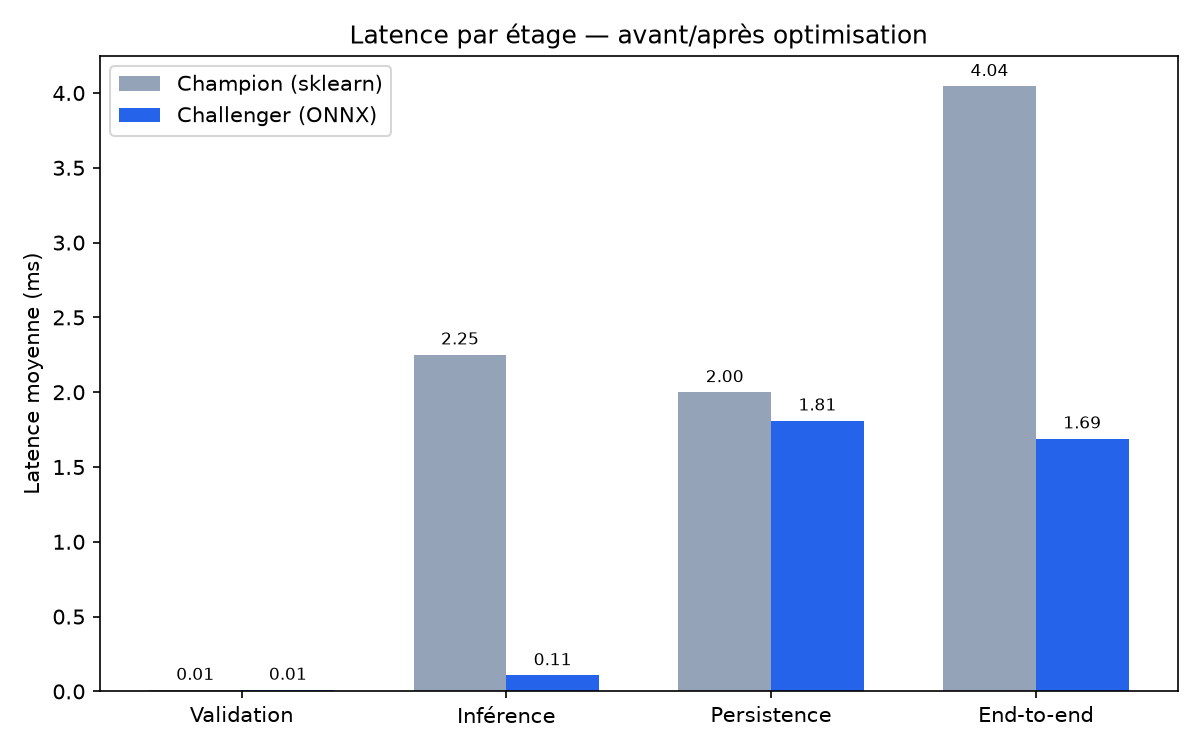
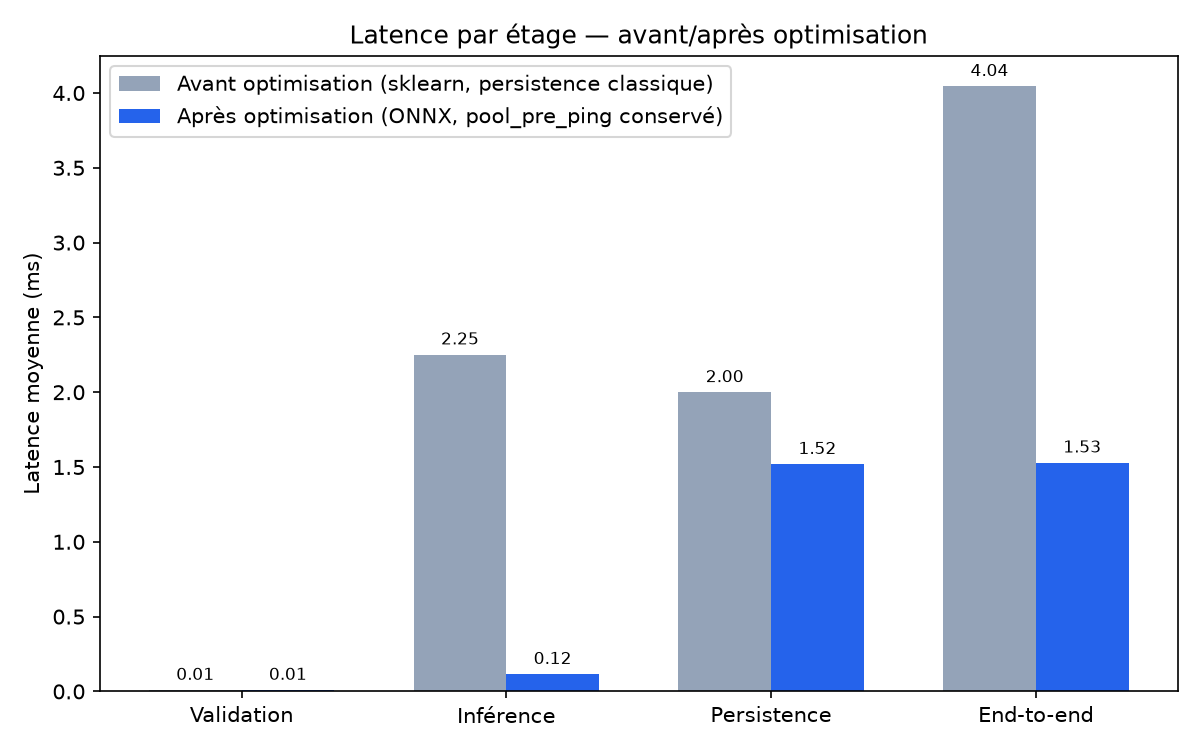
docs: refresh measured results with the end_to_end row and new comparison chart

diff --git a/docs/operations/optimisation-inference.md b/docs/operations/optimisation-inference.md
@@ -43,19 +43,20 @@ Comparaison entre l'ancien champion (v4, sklearn — alias `sklearn-champion` de
 
 ## Résultat mesuré
 
-Même protocole de profiling, 200 appels, rejoué contre le modèle ONNX (alors `challenger`, aujourd'hui `champion`) :
+Même protocole de profiling, 200 appels, avant tout changement vs. état actuellement déployé :
 
-![Latence par étage avant/après optimisation ONNX](../assets/model/onnx_inference_latency_comparison.png)
+![Latence par étage avant/après optimisation](../assets/model/onnx_inference_latency_comparison.png)
 
-*Généré par `make plot-profile-comparison` à partir de deux runs `scripts/profiling/profile_predict.py` (`reports/profiling/baseline-sklearn_stats.json` et `challenger-onnx_stats.json`, non commités).*
+*Généré par `make plot-profile-comparison` à partir de deux runs `scripts/profiling/profile_predict.py` (`reports/profiling/baseline-sklearn_stats.json` et `baseline-preping_stats.json`, non commités) — respectivement `sklearn-champion` (v4) avant tout changement, et `champion` (v5, ONNX).*
 
-| Étage | `sklearn-champion` (v4) | `champion` (v5, ONNX) | Gain |
+| Étage | Avant (sklearn) | Après (ONNX) | Gain |
 |---|:---:|:---:|:---:|
-| `inference` | 2.251 ms | 0.107–0.266 ms selon le run | **~8 à 20×** plus rapide |
-| `persistence` | 1.999 ms | 1.810–3.291 ms | inchangé (bruit Postgres normal, indépendant du modèle) |
-| **Goulot dominant** | `inference` (53 %) | `persistence` (92–94 %) | le modèle n'est plus le facteur limitant |
+| `inference` | 2.251 ms | 0.088–0.266 ms selon le run | **~8.5 à 25×** plus rapide (conversion ONNX) |
+| `persistence` | 1.999 ms | 1.519 ms | **~1.3×** plus rapide — probablement de la variance entre runs distincts plutôt qu'un vrai gain (`persistence` dépend de Postgres, pas du format du modèle) |
+| `end_to_end` | 4.045 ms | 1.529 ms | **~2.6×** plus rapide |
+| **Goulot dominant** | `inference` (53 %) | `persistence` (92 %) | le modèle n'est plus le facteur limitant |
 
-L'inférence n'est plus un facteur significatif de la latence de `/predictions` — la persistance PostgreSQL devient de très loin le poste dominant. C'est un **second goulot, indépendant du modèle**, hors scope de cette optimisation (voir [Monitoring & métriques](monitoring.md) pour comment il est surveillé).
+L'inférence n'est plus un facteur significatif de la latence de `/predictions` — la persistance PostgreSQL devient de très loin le poste dominant, malgré son propre gain. C'est un **second goulot, indépendant du modèle**, hors scope de la conversion ONNX (voir [Monitoring & métriques](monitoring.md) pour comment il est surveillé).
 
 ### Piste identifiée pour `persistence`, non implémentée
 
@@ -104,12 +105,22 @@ Les deux captures viennent de la même fenêtre de dashboard (30 dernières minu
 docker compose up -d postgres
 make db-migrate
 
-# Ancien champion (sklearn, alias `sklearn-champion` depuis la promotion) :
+# Avant tout changement (sklearn, alias `sklearn-champion` depuis la promotion,
+# et pool_pre_ping=True dans src/api/infra/postgres/tracking.py). Ce run n'est plus
+# rejouable tel quel : mlflow_model.py ne sait plus charger qu'un graphe ONNX
+# (voir Inference : stratégie retenue) — reports/profiling/baseline-sklearn_stats.json date
+# d'avant ce refactor et est conservé tel quel comme référence historique.
 MODEL_ALIAS=sklearn-champion SAMPLES=200 LABEL=baseline-sklearn make profile-predict
-# Modèle optimisé (ONNX, alias `champion` depuis la promotion — celui de .env par défaut) :
+# État actuellement déployé (ONNX) — utilisé pour le snakeviz "goulot persistence" plus haut :
 SAMPLES=200 LABEL=challenger-onnx make profile-predict
+# Même config, run distinct utilisé pour le graphique combiné ci-dessus :
+SAMPLES=200 LABEL=baseline-preping make profile-predict
 
-make plot-profile-comparison
+# Graphique combiné (avant tout changement vs. état actuellement déployé) :
+BASELINE=baseline-sklearn CHALLENGER=baseline-preping \
+  BASELINE_NAME="Avant optimisation (sklearn, persistence classique)" \
+  CHALLENGER_NAME="Après optimisation (ONNX)" \
+  make plot-profile-comparison
 ```
 
 Détail fonction par fonction d'un run : `uv run snakeviz reports/profiling/<label>_predict.prof`.
